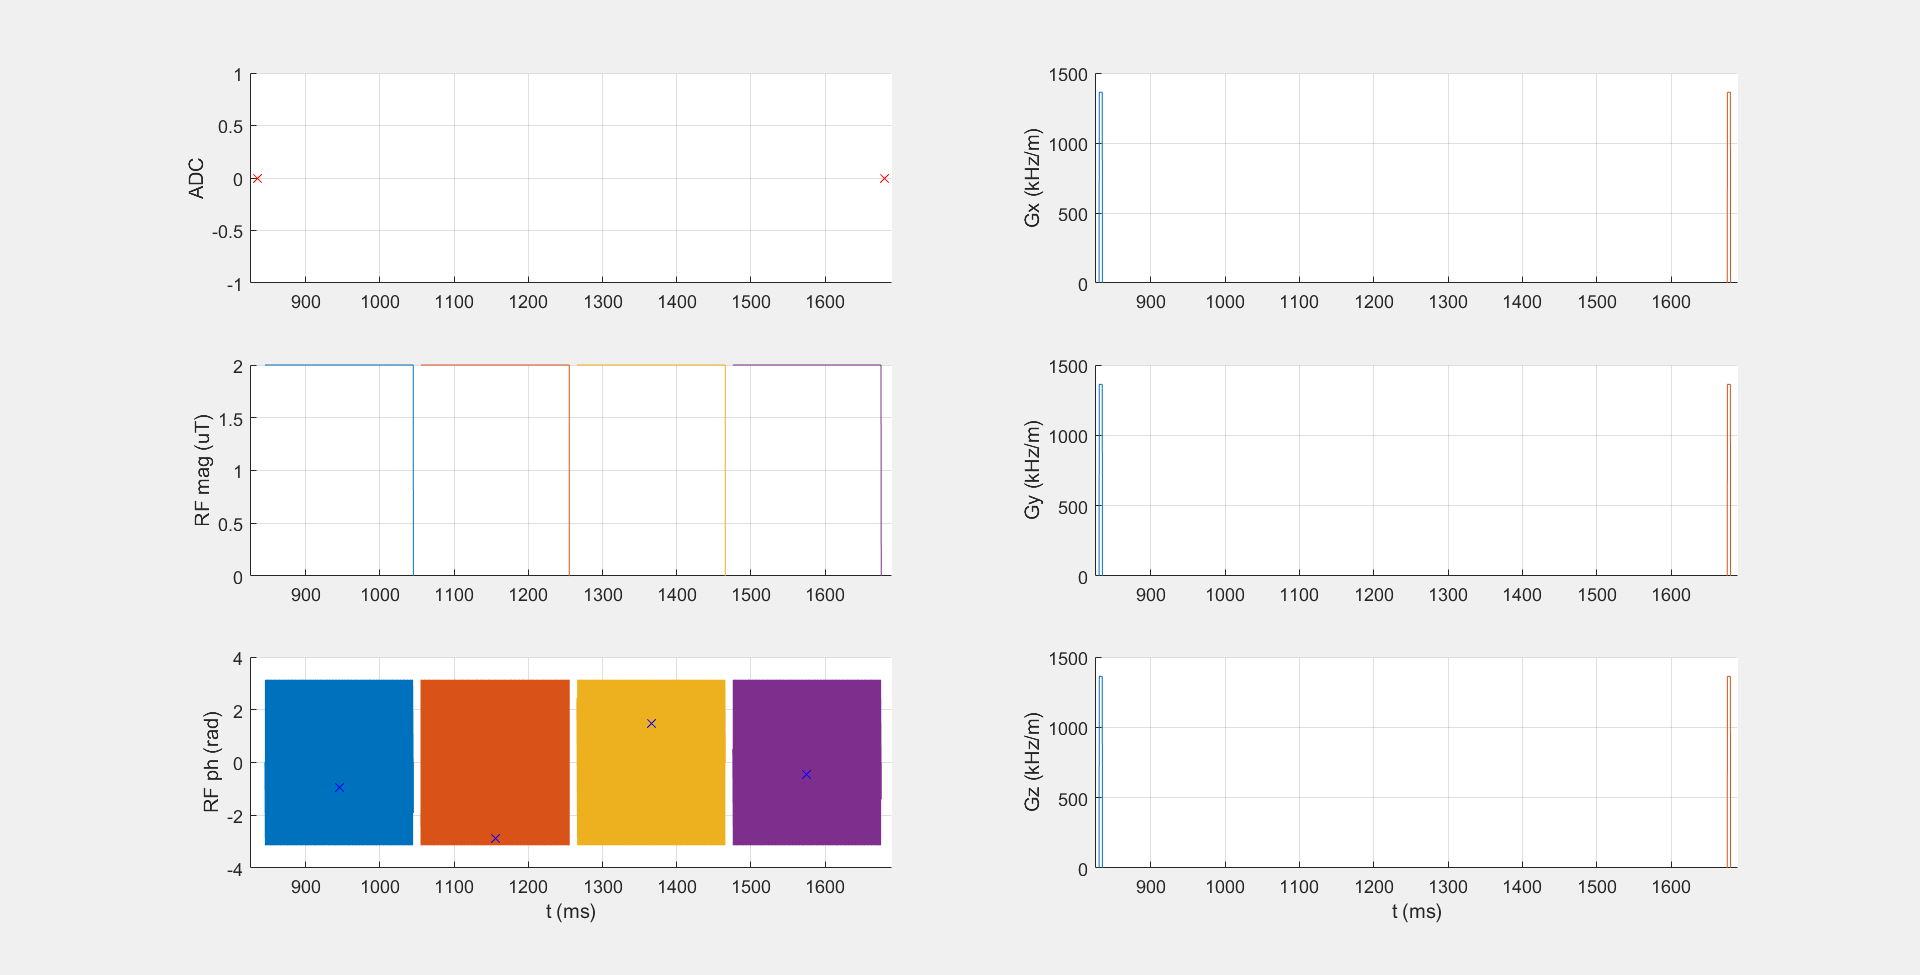
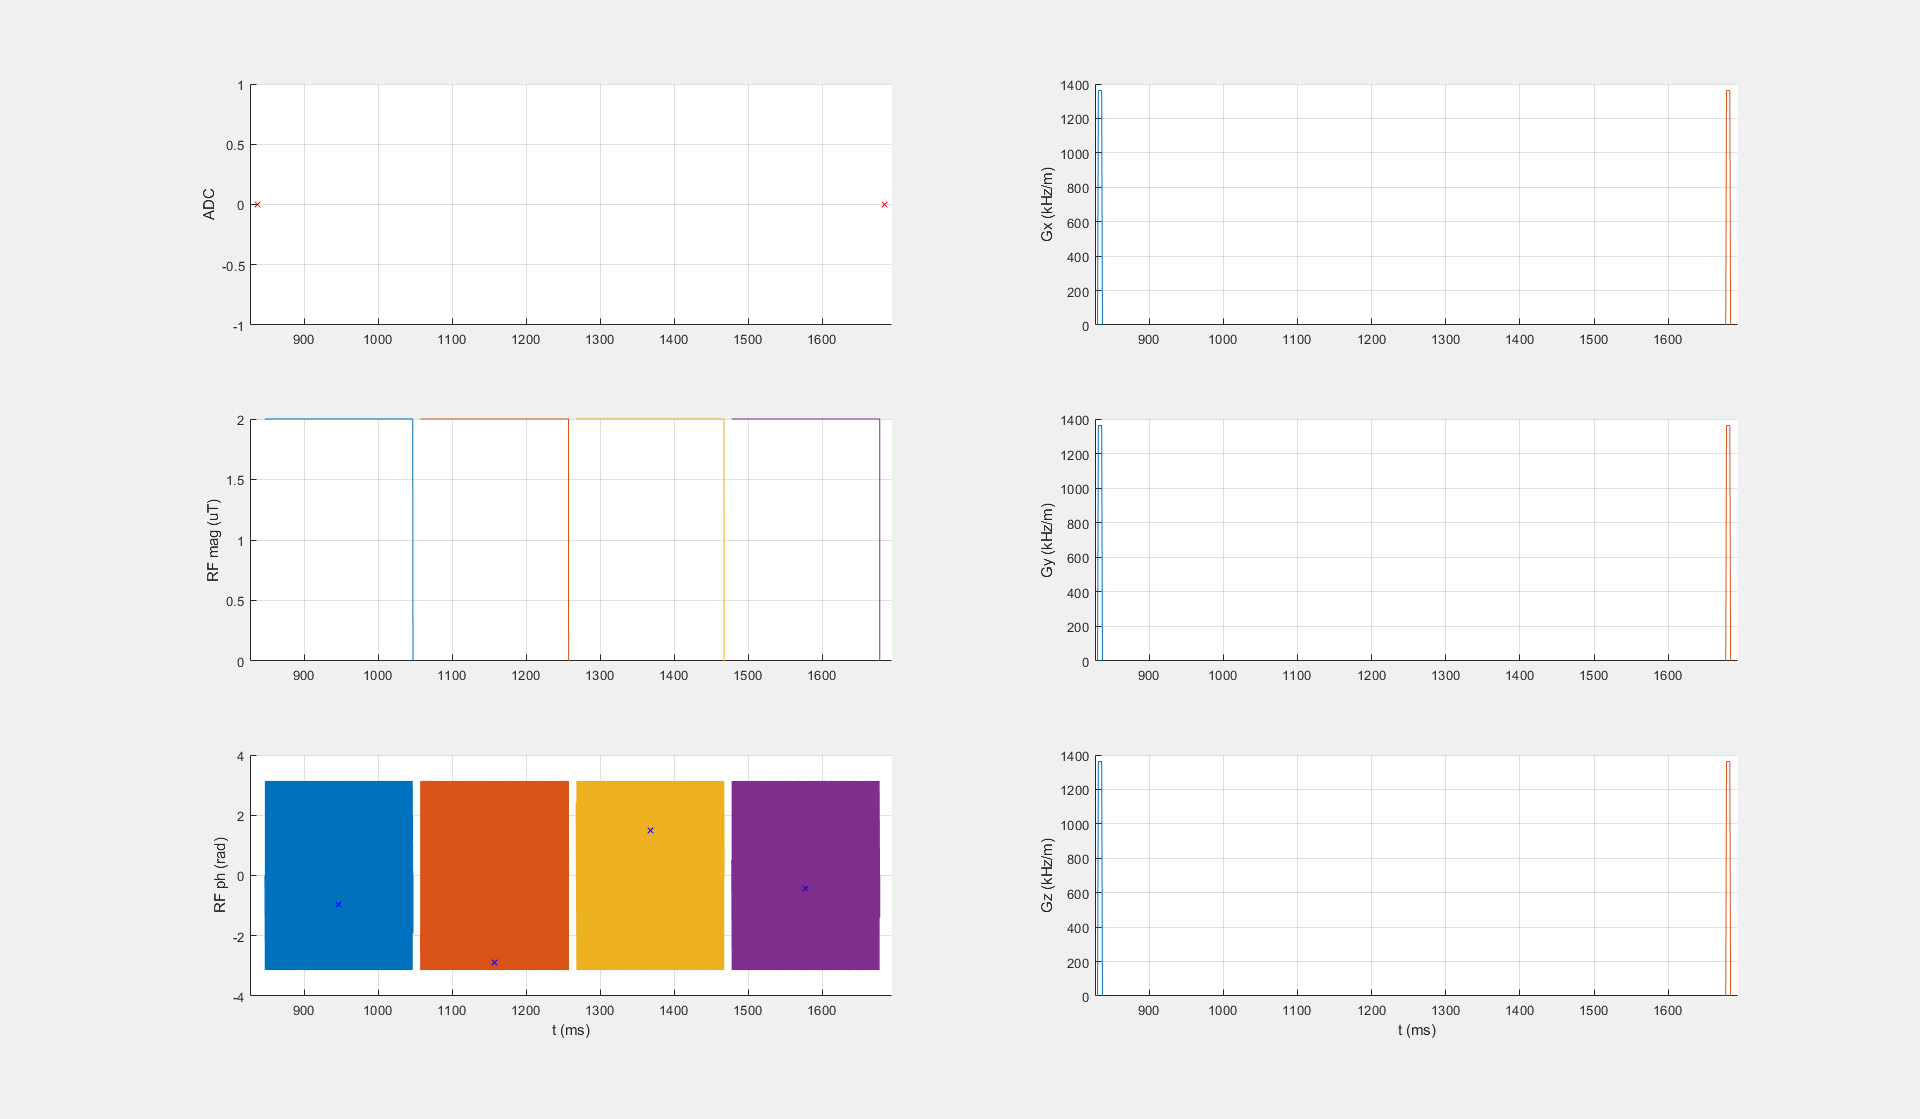
updated spoilers

diff --git a/cest-seq-library/APTw_3T_DC50.m b/cest-seq-library/APTw_3T_DC50.m
@@ -24,7 +24,7 @@ sat_b1       = 2.31;  % mean sat pulse b1 [uT]  % 2.41 for philips pulse
 t_p          = 50e-3; % sat pulse duration [s]
 t_d          = 50e-3; % delay between pulses [s]
 n_pulses     = 20;    % number of sat pulses per measurement. if DC changes use: n_pulses = round(2/(t_p+t_d))
-tsat= n_pulses*t_p+(n_pulses-1)*t_d
+%tsat= n_pulses*t_p+(n_pulses-1)*t_d
 B0           = 3;     % B0 [T]
 spoiling     = 1;     % 0=no spoiling, 1=before readout, Gradient in x,y,z
 
@@ -46,12 +46,10 @@ satPulse      = mr.makeGaussPulse(fa_sat, 'Duration', t_p, 'system', lims,'timeB
 [B1cwpe,B1cwae,B1cwae_pure,alpha]= calc_power_equivalents(satPulse,t_p,t_d,1,gyroRatio_hz);
 
 % spoilers
-spoilAmplitude = 0.8 .* lims.maxGrad; % [Hz/m]
-spoilDuration = 4500e-6; % [s]
+spoilRiseTime = 1e-3;
+spoilDuration = 4500e-6+ spoilRiseTime; % [s]
 % create pulseq gradient object
-gxSpoil=mr.makeTrapezoid('x','Amplitude',spoilAmplitude,'Duration',spoilDuration,'system',lims);
-gySpoil=mr.makeTrapezoid('y','Amplitude',spoilAmplitude,'Duration',spoilDuration,'system',lims);
-gzSpoil=mr.makeTrapezoid('z','Amplitude',spoilAmplitude,'Duration',spoilDuration,'system',lims);
+[gxSpoil, gySpoil, gzSpoil] = Create_spoiler_gradients(lims, spoilDuration, spoilRiseTime);
 
 % pseudo adc, not played out
 pseudoADC = mr.makeAdc(1,'Duration', 1e-3);
@@ -94,6 +92,9 @@ end
 seq.setDefinition('offsets_ppm',offset_list);
 seq.setDefinition('run_m0_scan', run_m0_scan);
 seq.write(seq_filename);
+
+%% plot
+save_seq_plot(seq_filename);
 
 %% call standard sim
 Simulate_and_plot_seq_file(seq_filename, B0);

diff --git a/cest-seq-library/util/Create_spoiler_gradients.m b/cest-seq-library/util/Create_spoiler_gradients.m
@@ -1,0 +1,32 @@
+function [gx, gy, gz] = Create_spoiler_gradients(lims, duration, riseTime)
+% This function creates spoiler objects in x y and z direction based on the
+% maximal spoiler amplitude
+% A specified rise-/falltime can be set, otherwise minimum times are used
+% Duration is defined as FlatTime + risteTime
+%
+% kai.herz@tuebingen.mpg.de
+if nargin < 2
+    error('Scanner limits and duration are need as input!');
+end
+
+spoilAmplitude = 0.8 .* lims.maxGrad; % [Hz/m]
+minRiseTime = abs(spoilAmplitude)/lims.maxSlew;
+minRiseTime = ceil(minRiseTime/lims.gradRasterTime)*lims.gradRasterTime;
+
+if nargin == 3
+    if riseTime < minRiseTime
+       warning(['Specified riseTime is shorter than minimum! ' num2str(minRiseTime) ' s is used instead!']);
+       riseTime = minRiseTime; 
+    end
+else
+    riseTime = minRiseTime;
+end
+    
+spoilDuration = duration+riseTime; % [s]
+
+% create pulseq gradient object 
+gx=mr.makeTrapezoid('x','Amplitude',spoilAmplitude,'Duration',spoilDuration,'riseTime', riseTime, 'system',lims);
+gy=mr.makeTrapezoid('y','Amplitude',spoilAmplitude,'Duration',spoilDuration,'riseTime', riseTime, 'system',lims);
+gz=mr.makeTrapezoid('z','Amplitude',spoilAmplitude,'Duration',spoilDuration,'riseTime', riseTime, 'system',lims);
+
+end

diff --git a/cest-seq-library/APTw_3T_DC90.m b/cest-seq-library/APTw_3T_DC90.m
@@ -47,12 +47,10 @@ satPulse      = mr.makeGaussPulse(fa_sat, 'Duration', t_p, 'system', lims,'timeB
 [B1cwpe,B1cwae,B1cwae_pure,alpha]= calc_power_equivalents(satPulse,t_p,t_d,1,gyroRatio_hz);
 
 % spoilers
-spoilAmplitude = 0.8 .* lims.maxGrad; % [Hz/m]
-spoilDuration = 4500e-6; % [s]
+spoilRiseTime = 1e-3;
+spoilDuration = 4500e-6+ spoilRiseTime; % [s]
 % create pulseq gradient object
-gxSpoil=mr.makeTrapezoid('x','Amplitude',spoilAmplitude,'Duration',spoilDuration,'system',lims);
-gySpoil=mr.makeTrapezoid('y','Amplitude',spoilAmplitude,'Duration',spoilDuration,'system',lims);
-gzSpoil=mr.makeTrapezoid('z','Amplitude',spoilAmplitude,'Duration',spoilDuration,'system',lims);
+[gxSpoil, gySpoil, gzSpoil] = Create_spoiler_gradients(lims, spoilDuration, spoilRiseTime);
 
 % pseudo adc, not played out
 pseudoADC = mr.makeAdc(1,'Duration', 1e-3);
@@ -101,6 +99,9 @@ end
 seq.setDefinition('offsets_ppm',offset_list);
 seq.setDefinition('run_m0_scan', run_m0_scan);
 seq.write(seq_filename);
+
+%% plot
+save_seq_plot(seq_filename);
 
 %% call standard sim
 Simulate_and_plot_seq_file(seq_filename, B0);

diff --git a/cest-seq-library/APTw_3T_800ms.m b/cest-seq-library/APTw_3T_800ms.m
@@ -42,12 +42,10 @@ fa_sat        = sat_b1*gyroRatio_rad*t_p; % flip angle of sat pulse
 satPulse      = mr.makeBlockPulse(fa_sat, 'Duration', t_p, 'system', lims);
 
 % spoilers
-spoilAmplitude = 0.8 .* lims.maxGrad; % [Hz/m]
-spoilDuration = 4500e-6; % [s]
+spoilRiseTime = 1e-3;
+spoilDuration = 4500e-6+ spoilRiseTime; % [s]
 % create pulseq gradient object
-gxSpoil=mr.makeTrapezoid('x','Amplitude',spoilAmplitude,'Duration',spoilDuration,'system',lims);
-gySpoil=mr.makeTrapezoid('y','Amplitude',spoilAmplitude,'Duration',spoilDuration,'system',lims);
-gzSpoil=mr.makeTrapezoid('z','Amplitude',spoilAmplitude,'Duration',spoilDuration,'system',lims);
+[gxSpoil, gySpoil, gzSpoil] = Create_spoiler_gradients(lims, spoilDuration, spoilRiseTime);
 
 % pseudo adc, not played out
 pseudoADC = mr.makeAdc(1,'Duration', 1e-3);
@@ -99,6 +97,9 @@ end
 seq.setDefinition('offsets_ppm',offset_list);
 seq.setDefinition('run_m0_scan', run_m0_scan);
 seq.write(seq_filename);
+
+%% plot
+save_seq_plot(seq_filename);
 
 %% call standard sim
 Simulate_and_plot_seq_file(seq_filename, B0);

diff --git a/cest-seq-library/DGErho_3T_001_Herz2019.m b/cest-seq-library/DGErho_3T_001_Herz2019.m
@@ -34,12 +34,10 @@ satPulse      = mr.makeBlockPulse(fa_sat, 'Duration', t_p, 'system', lims);
 adia_SL  = WriteSLExpPulseqPulses(sat_b1, lims);
 
 % spoilers
-spoilAmplitude = 0.8 .* lims.maxGrad; % [Hz/m]
-spoilDuration = 4500e-6; % [s]
-% create pulseq gradient object 
-gxSpoil=mr.makeTrapezoid('x','Amplitude',spoilAmplitude,'Duration',spoilDuration,'system',lims);
-gySpoil=mr.makeTrapezoid('y','Amplitude',spoilAmplitude,'Duration',spoilDuration,'system',lims);
-gzSpoil=mr.makeTrapezoid('z','Amplitude',spoilAmplitude,'Duration',spoilDuration,'system',lims);
+spoilRiseTime = 1e-3;
+spoilDuration = 4500e-6+ spoilRiseTime; % [s]
+% create pulseq gradient object
+[gxSpoil, gySpoil, gzSpoil] = Create_spoiler_gradients(lims, spoilDuration, spoilRiseTime);
 
 % pseudo adc, not played out
 pseudoADC = mr.makeAdc(1,'Duration', 1e-3);
@@ -108,7 +106,7 @@ t_start = tic;
 seq.plot();
 t_end = toc(t_start);
 disp(['Plotting .seq file took ' num2str(t_end) ' s']);
-
+save_seq_plot(seq_filename);
 
 %% call standard sim
 disp('Simulating .seq file ... ');

diff --git a/cest-seq-library/APTw_3T_002_Keupp2011.m b/cest-seq-library/APTw_3T_002_Keupp2011.m
@@ -48,12 +48,10 @@ fa_sat        = sat_b1*gyroRatio_rad*t_p; % flip angle of sat pulse
 satPulse      = mr.makeGaussPulse(fa_sat, 'Duration', t_p, 'timeBwProduct', 0.2,'apodization', 0.5, 'system', lims);
 
 % spoilers
-spoilAmplitude = 0.8 .* lims.maxGrad; % [Hz/m]
-spoilDuration = 4500e-6; % [s]
-% create pulseq gradient object 
-gxSpoil=mr.makeTrapezoid('x','Amplitude',spoilAmplitude,'Duration',spoilDuration,'system',lims);
-gySpoil=mr.makeTrapezoid('y','Amplitude',spoilAmplitude,'Duration',spoilDuration,'system',lims);
-gzSpoil=mr.makeTrapezoid('z','Amplitude',spoilAmplitude,'Duration',spoilDuration,'system',lims);
+spoilRiseTime = 1e-3;
+spoilDuration = 4500e-6+ spoilRiseTime; % [s]
+% create pulseq gradient object
+[gxSpoil, gySpoil, gzSpoil] = Create_spoiler_gradients(lims, spoilDuration, spoilRiseTime);
 
 % pseudo adc, not played out
 pseudoADC = mr.makeAdc(1,'Duration', 1e-3);

diff --git a/cest-seq-library/APTw_3T_001_Zhou2019.m b/cest-seq-library/APTw_3T_001_Zhou2019.m
@@ -41,12 +41,10 @@ satPulse      = mr.makeBlockPulse(fa_sat, 'Duration', t_p, 'system', lims);
 [B1cwpe,B1cwae,B1cwae_pure,alpha]= calc_power_equivalents(satPulse,t_p,t_d,1,gyroRatio_hz);
 
 % spoilers
-spoilAmplitude = 0.8 .* lims.maxGrad; % [Hz/m]
-spoilDuration = 4500e-6; % [s]
-% create pulseq gradient object 
-gxSpoil=mr.makeTrapezoid('x','Amplitude',spoilAmplitude,'Duration',spoilDuration,'system',lims);
-gySpoil=mr.makeTrapezoid('y','Amplitude',spoilAmplitude,'Duration',spoilDuration,'system',lims);
-gzSpoil=mr.makeTrapezoid('z','Amplitude',spoilAmplitude,'Duration',spoilDuration,'system',lims);
+spoilRiseTime = 1e-3;
+spoilDuration = 4500e-6+ spoilRiseTime; % [s]
+% create pulseq gradient object
+[gxSpoil, gySpoil, gzSpoil] = Create_spoiler_gradients(lims, spoilDuration, spoilRiseTime);
 
 % pseudo adc, not played out
 pseudoADC = mr.makeAdc(1,'Duration', 10e-3);

diff --git a/cest-seq-library/APTw_3T_003_GLINT.m b/cest-seq-library/APTw_3T_003_GLINT.m
@@ -42,12 +42,10 @@ fa_sat        = sat_b1*gyroRatio_rad*t_p; % flip angle of sat pulse
 satPulse      = mr.makeGaussPulse(fa_sat, 'Duration', t_p, 'timeBwProduct', 0.2,'apodization', 0.5, 'system', lims);
 
 % spoilers
-spoilAmplitude = 0.8 .* lims.maxGrad; % [Hz/m]
-spoilDuration = 4500e-6; % [s]
+spoilRiseTime = 1e-3;
+spoilDuration = 4500e-6+ spoilRiseTime; % [s]
 % create pulseq gradient object
-gxSpoil=mr.makeTrapezoid('x','Amplitude',spoilAmplitude,'Duration',spoilDuration,'system',lims);
-gySpoil=mr.makeTrapezoid('y','Amplitude',spoilAmplitude,'Duration',spoilDuration,'system',lims);
-gzSpoil=mr.makeTrapezoid('z','Amplitude',spoilAmplitude,'Duration',spoilDuration,'system',lims);
+[gxSpoil, gySpoil, gzSpoil] = Create_spoiler_gradients(lims, spoilDuration, spoilRiseTime);
 
 % pseudo adc, not played out
 pseudoADC = mr.makeAdc(1,'Duration', 1e-3);

diff --git a/cest-seq-library/DGE_7T_001_Xu2019.m b/cest-seq-library/DGE_7T_001_Xu2019.m
@@ -35,12 +35,10 @@ fa_sat        = sat_b1*gyroRatio_rad*t_p; % flip angle of sat pulse
 satPulse      = mr.makeGaussPulse(fa_sat, 'Duration', t_p, 'timeBwProduct', 0.2,'apodization', 0.5, 'system', lims);
 
 % spoilers
-spoilAmplitude = 0.8 .* lims.maxGrad; % [Hz/m]
-spoilDuration = 4500e-6; % [s]
+spoilRiseTime = 1e-3;
+spoilDuration = 4500e-6+ spoilRiseTime; % [s]
 % create pulseq gradient object
-gxSpoil=mr.makeTrapezoid('x','Amplitude',spoilAmplitude,'Duration',spoilDuration,'system',lims);
-gySpoil=mr.makeTrapezoid('y','Amplitude',spoilAmplitude,'Duration',spoilDuration,'system',lims);
-gzSpoil=mr.makeTrapezoid('z','Amplitude',spoilAmplitude,'Duration',spoilDuration,'system',lims);
+[gxSpoil, gySpoil, gzSpoil] = Create_spoiler_gradients(lims, spoilDuration, spoilRiseTime);
 
 % pseudo adc, not played out
 pseudoADC = mr.makeAdc(1,'Duration', 1e-3);

diff --git a/cest-seq-library/Glut_7T_001_Cai2003.m b/cest-seq-library/Glut_7T_001_Cai2003.m
@@ -45,12 +45,10 @@ fa_sat        = sat_b1*gyroRatio_rad*t_p; % flip angle of sat pulse
 satPulse      = mr.makeGaussPulse(fa_sat, 'Duration', t_p, 'timeBwProduct', 0.2,'apodization', 0.5, 'system', lims);
 
 % spoilers
-spoilAmplitude = 0.8 .* lims.maxGrad; % [Hz/m]
-spoilDuration = 4500e-6; % [s]
+spoilRiseTime = 1e-3;
+spoilDuration = 4500e-6+ spoilRiseTime; % [s]
 % create pulseq gradient object
-gxSpoil=mr.makeTrapezoid('x','Amplitude',spoilAmplitude,'Duration',spoilDuration,'system',lims);
-gySpoil=mr.makeTrapezoid('y','Amplitude',spoilAmplitude,'Duration',spoilDuration,'system',lims);
-gzSpoil=mr.makeTrapezoid('z','Amplitude',spoilAmplitude,'Duration',spoilDuration,'system',lims);
+[gxSpoil, gySpoil, gzSpoil] = Create_spoiler_gradients(lims, spoilDuration, spoilRiseTime);
 
 % pseudo adc, not played out
 pseudoADC = mr.makeAdc(1,'Duration', 1e-3);
